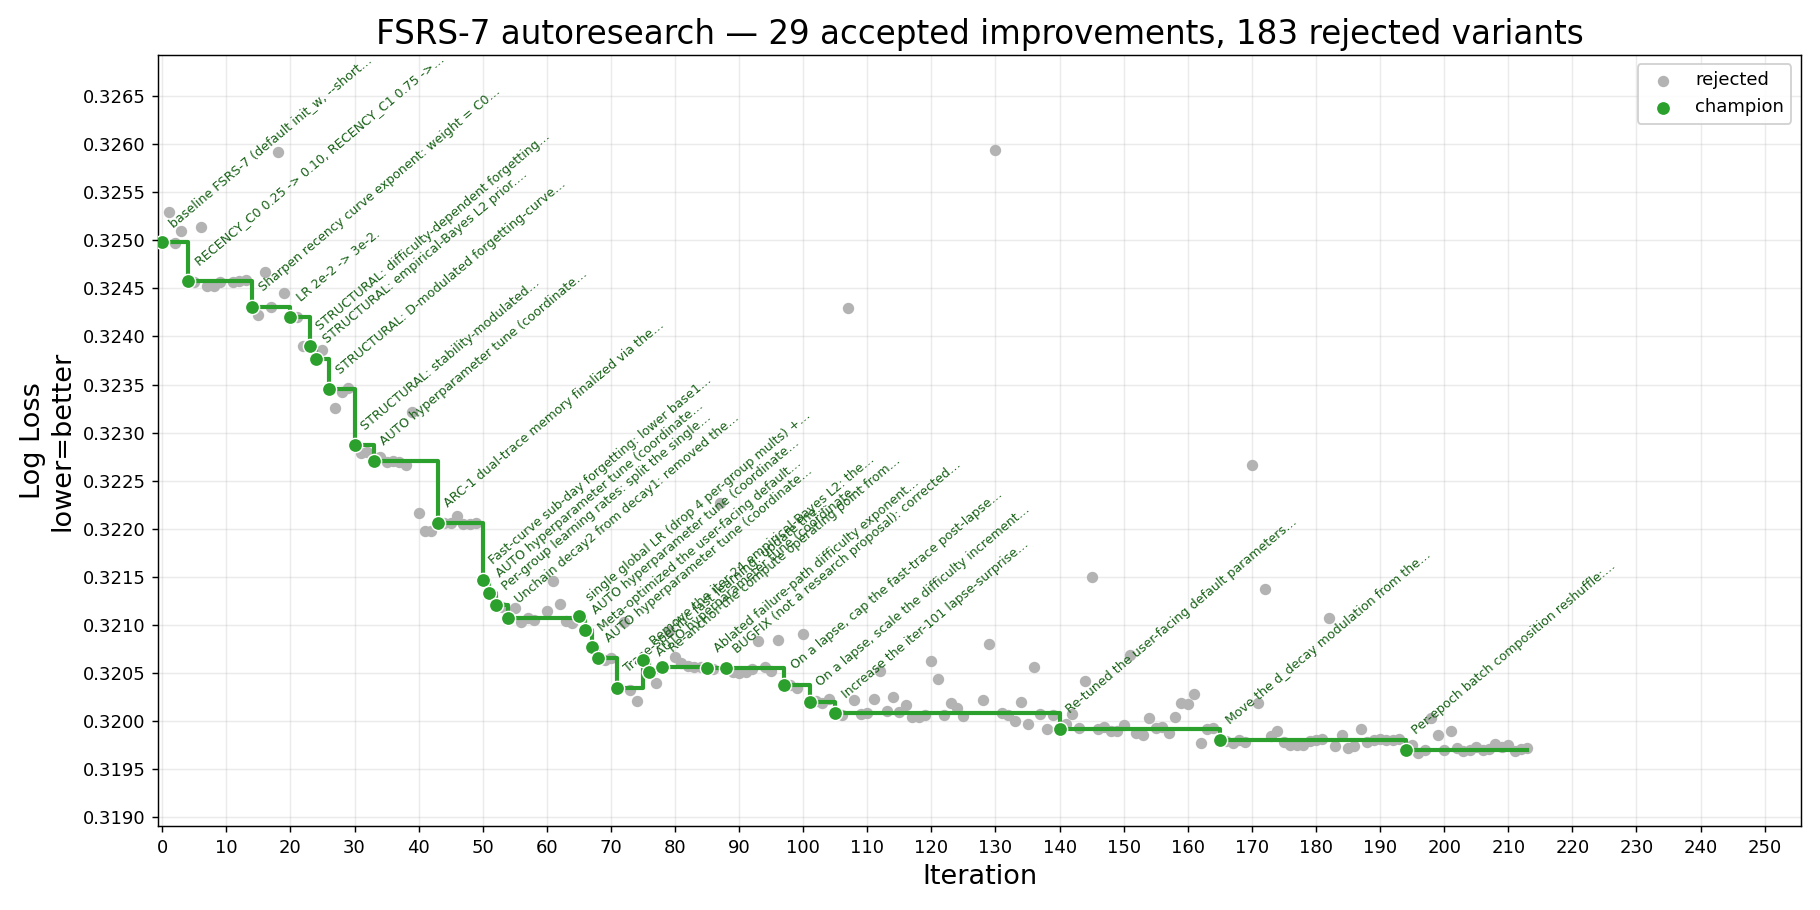
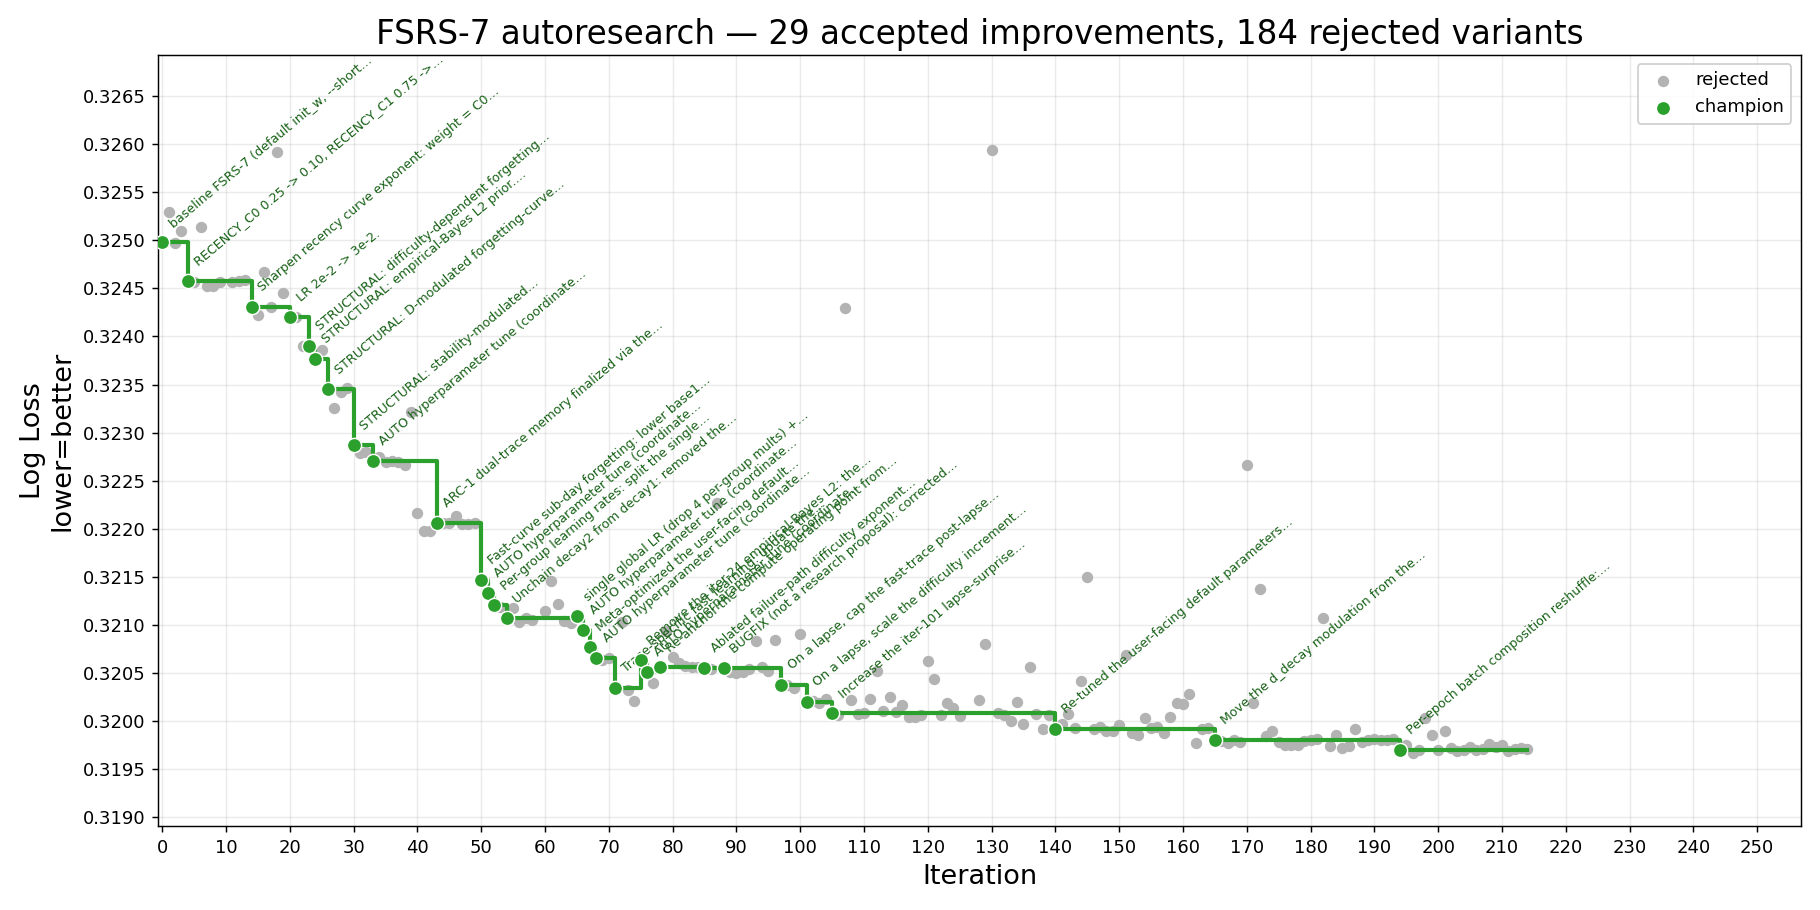
iter-214 rejected (-1.2e-5, bar 0.0001): SAM; no exploitable sharpness in the 35-param per-user problem
Projected per-row SAM (rho*g/|g|, clipper-projected second gradient eval).
Bracket steeply monotone harmful (0.01 -> -1.1e-5, 0.03 -> -2.7e-4, 0.1 ->
-2.3e-3); mandatory bundled hp_tune at rho=0.01 ran 12 trials, every knob
direction negative, changes none - champion HPs were already optimal for the
SAM regime and the regime is simply worse. Side-finding: SAM's doubled
scatter_add reintroduces ~1e-5 atomics noise. Flat-minima family fully
closed (SWA/EMA/Lookahead/SAM): minima are already flat at this scale.

diff --git a/result/history.md b/result/history.md
@@ -1,6 +1,6 @@
 # FSRS-7 autoresearch — iteration history
 
-_213 record(s). Generated from `history.jsonl` — do not edit by hand._
+_214 record(s). Generated from `history.jsonl` — do not edit by hand._
 
 | # | Time (UTC) | Thresh. | LL before | LL after | Δ LL | Cx before | Cx after | Δ Cx % | Status | Summary |
 |--:|---|---:|---:|---:|---:|---:|---:|---:|---|---|
@@ -217,3 +217,4 @@ _213 record(s). Generated from `history.jsonl` — do not edit by hand._
 | 211 | 2026-06-11T17:29:05 | 0.0001 | 0.31970 | 0.31968 | +0.00002 | 19,909 | 19,909 | +0.00% | rejected | Defaults re-tune via gated meta-opt: 30 central-diff steps on 0-epoch proxy, recency-evaluated every 5 steps, select on recency. |
 | 212 | 2026-06-11T17:55:36 | 0.0012 | 0.31970 | 0.31971 | -0.00001 | 19,909 | 19,965 | +0.28% | rejected | Add 4th state d_short: per-trace difficulty with own adaptation rate w[34]; short-trace stability update reads d_short. |
 | 213 | 2026-06-11T18:08:08 | 0.0001 | 0.31970 | 0.31972 | -0.00002 | 19,909 | 19,909 | +0.00% | rejected | Widen s_weight_power1 (w[29]) lower clamp 0.0 to -0.3 (short-component weight may grow with s_short). |
+| 214 | 2026-06-11T19:18:56 | 0.0001 | 0.31970 | 0.31971 | -0.00001 | 19,909 | 19,909 | +0.00% | rejected | Add SAM: per-row gradient-ascent perturbation rho*g/\|g\| before a second gradient eval; rho bracketed, then bundled hp_tune. |
